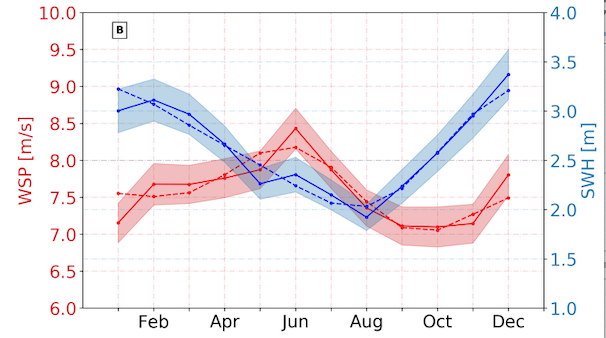
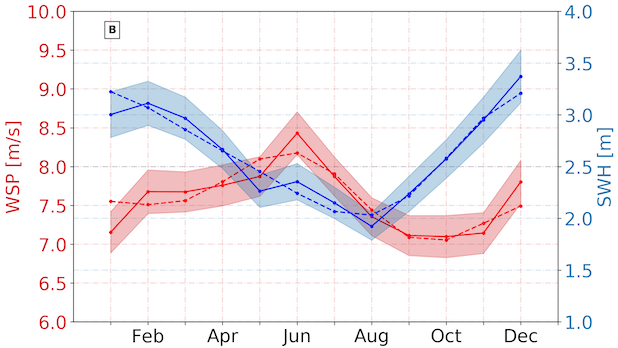
add a figure to research

diff --git a/_publications/2020-02-01-wave-climatology.md b/_publications/2020-02-01-wave-climatology.md
@@ -12,4 +12,7 @@ citation: 'Luke V. Colosi, Sarah T. Gille, Ana B. Villas Boas. &quot;The Seasona
 
 In 2017, I began working with Dr. Sarah T. Gille on a project investigating the intra-annual variability of significant wave height (SWH) in regards to SWH relationship with local wind speed (WSP). The sinusoidal annual cycle of SWH, generated by large-scale seasonal patterns in storms, is the dominant signal for the majority of the world’s oceans. However, we observed important deviations from the annual cycle due to local wind events. Off the coast of California, a particular deviation, identified as having an increase in SWH during early summer, occurs due to expansion fan wind events. WSP reaches a maximum during early summer giving SWH and WSP a characteristic annual cycle phase difference of nearly 90 degrees. In other hypothesized expansion fan wind  regions known as summer wind anomaly regions (SWARs), deviations from the SWH annual cycle are largely unexplored and the impact of these wind events on the wave field’s sea state is unclear. Using regional climatologies of SWH and WSP, the magnitude of the deviation from the SWH annual cycle in SWARs is shown to be determined by the local conditions and characteristics of the wave field (e.g. extent SWARs are sheltered from regions with storms that produce remotely forced waves). These deviations imply that the wave field is dominated by locally forced waves during the anomalous wind events while for the remainder of the time, the wave field is primarily dominated by remotely forced waves. Modulation of the wave field by strong wind events may lead to enhanced wave breaking which could have implications for air-sea fluxes.
 
-![Figure 1](https://lcolosi.github.io/files/swh_wsp_climatology.png "Figure 1: SWH (solid blue curve) and WSP (solid red curve) climatologies in shaded 4 degree by 4 degree boxes within SWAR located off the California Coast.")
+![Figure 1](https://lcolosi.github.io/files/swh_wsp_climatology.png "Figure 1: SWH (solid blue curve) and WSP (solid red curve) climatologies in a 4 degree by 4 degree region  within SWAR located off the California Coast.")
+
+Figure 1: SWH (solid blue curve) and WSP (solid red curve) climatologies in 4 degree by 4 degree region within SWAR located off the California Coast. Shading represents the standard error of the mean and dotted blue and red lines are the annual plus semi-annual cycle least-squares fitted to monthly climatology for SWH and WSP respectively.
+
